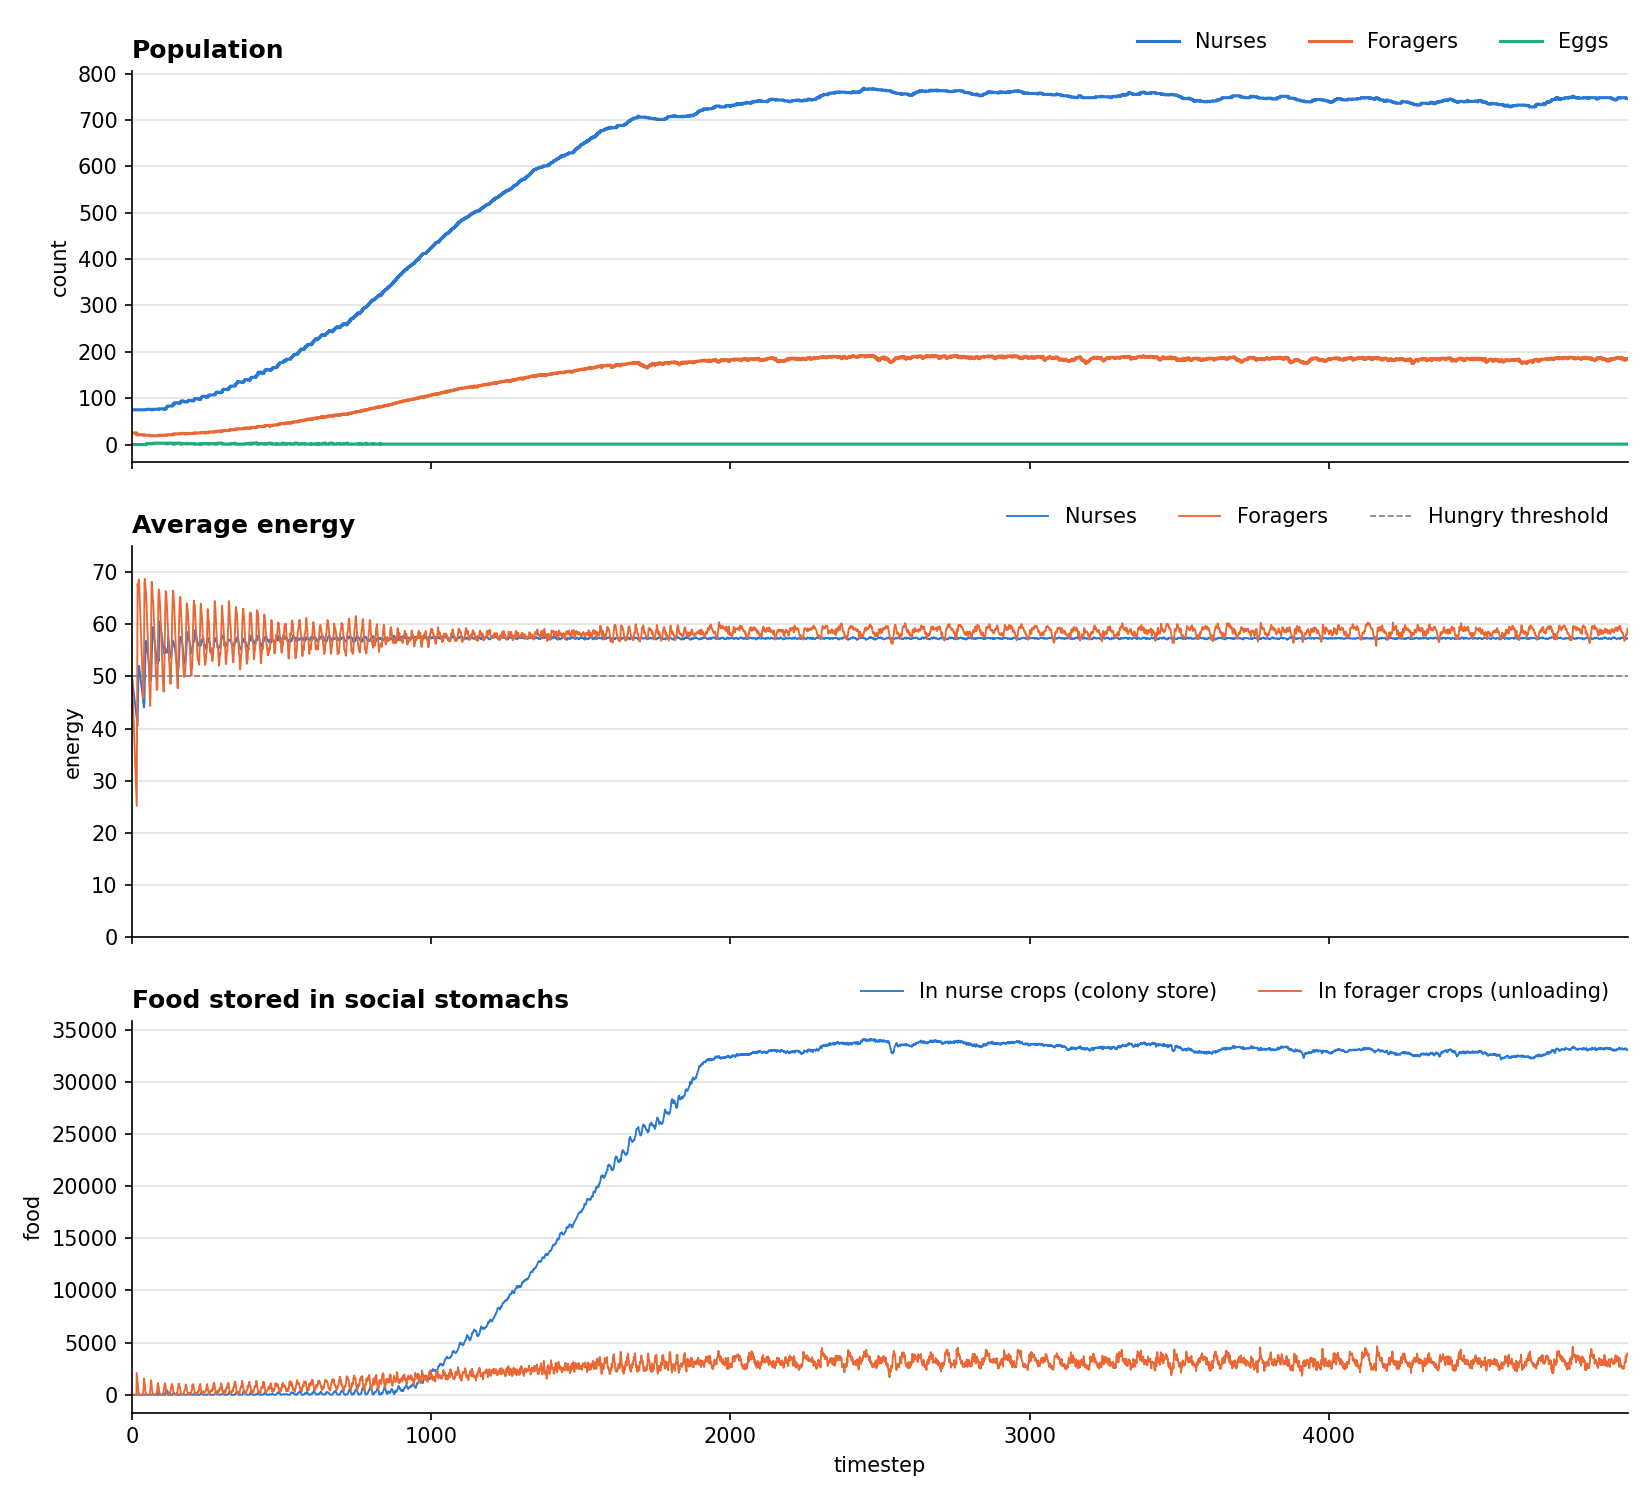
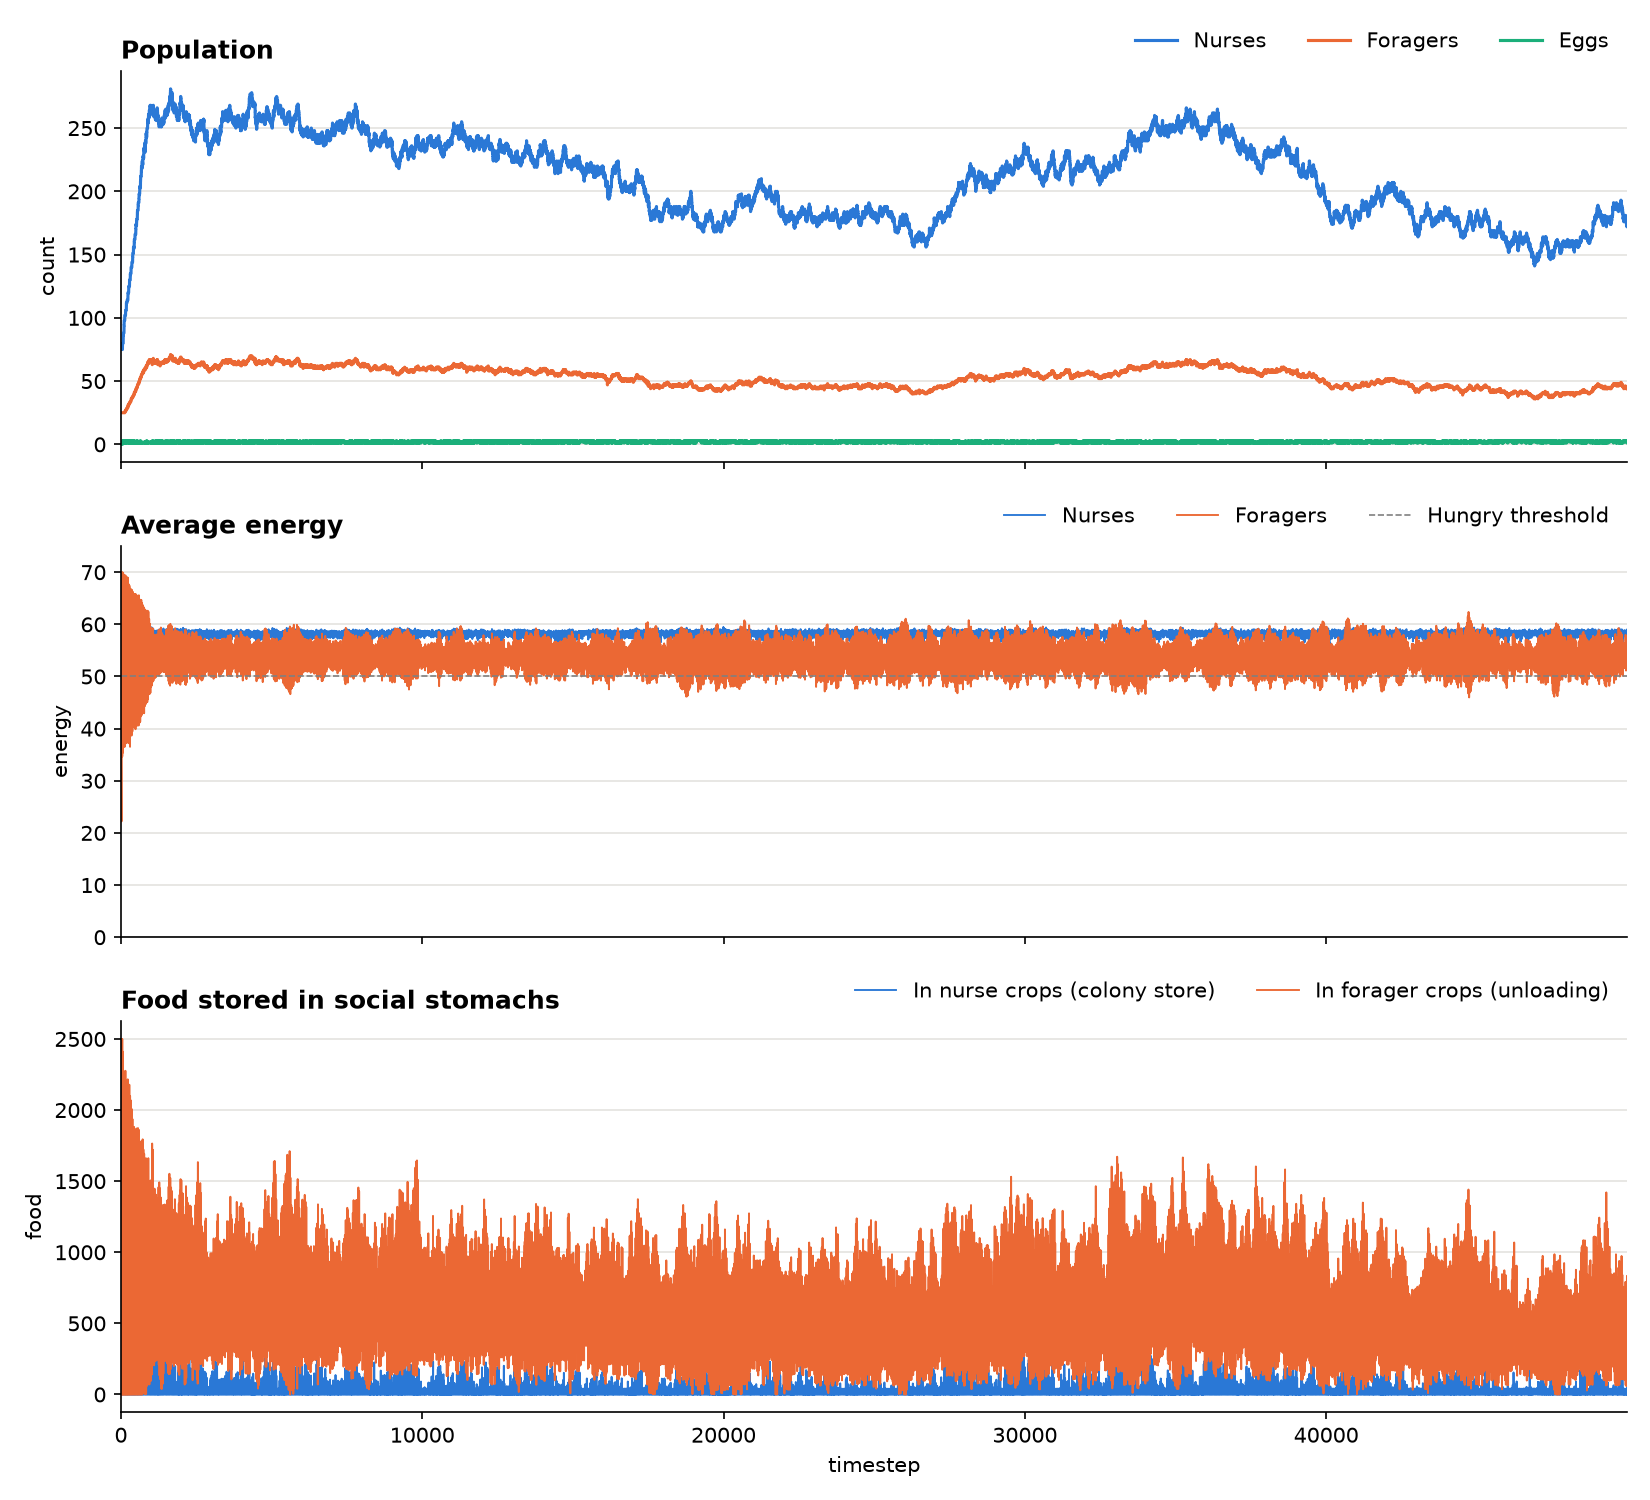
Amended parameters

diff --git a/src/5th nov meeting 100 ant problem.py b/src/5th nov meeting 100 ant problem.py
@@ -1,0 +1,127 @@
+import matplotlib as plt
+
+# ---------------- PARAMETERS ----------------
+
+TOTAL_ANTS = 100
+
+forager_start = 50
+nurse_start = 50
+
+forager_threshold = 50
+nurse_threshold = 50
+
+ant_full = 70
+
+food_per_trip = 100
+feed_rate = 5
+trip_length = 20
+drain = 1
+
+timesteps = 1000
+
+
+# ---------------- SIMULATION ----------------
+
+def run_simulation(starting_foragers):
+
+    starting_nurses = TOTAL_ANTS - starting_foragers
+
+    nurses = [nurse_start] * starting_nurses
+    foragers = [forager_start] * starting_foragers
+    trip_timers = [0] * starting_foragers
+
+    for t in range(timesteps):
+
+        # everyone loses energy
+        for i in range(len(foragers)):
+            foragers[i] -= drain
+
+        for i in range(len(nurses)):
+            nurses[i] -= drain
+
+        # colony dies if anyone starves
+        if any(f <= 0 for f in foragers):
+            return t
+
+        if any(n <= 0 for n in nurses):
+            return t
+
+        # travelling
+        for i in range(len(foragers)):
+
+            if trip_timers[i] > 0:
+
+                trip_timers[i] -= 1
+
+                if trip_timers[i] == 0:
+                    foragers[i] += food_per_trip
+
+        # hungry foragers leave
+        for i in range(len(foragers)):
+
+            if trip_timers[i] == 0 and foragers[i] < forager_threshold:
+                trip_timers[i] = trip_length
+
+        # feed nurses
+        for nurse in range(len(nurses)):
+
+            while nurses[nurse] < nurse_threshold:
+
+                fed = False
+
+                for f in range(len(foragers)):
+
+                    if trip_timers[f] == 0 and foragers[f] > forager_threshold:
+
+                        food = min(
+                            feed_rate,
+                            foragers[f] - forager_threshold,
+                            ant_full - nurses[nurse]
+                        )
+
+                        if food > 0:
+                            nurses[nurse] += food
+                            foragers[f] -= food
+                            fed = True
+                            break
+
+                if not fed:
+                    break
+
+    return timesteps
+
+
+# ---------------- RUN EVERY RATIO ----------------
+
+survival = []
+
+ratios = []
+
+for starting_foragers in range(TOTAL_ANTS + 1):
+
+    time_alive = run_simulation(starting_foragers)
+
+    survival.append(time_alive)
+
+    ratios.append(starting_foragers)
+
+    print(
+        f"Foragers = {starting_foragers:3d} | "
+        f"Nurses = {TOTAL_ANTS-starting_foragers:3d} | "
+        f"Survived {time_alive} steps"
+    )
+
+
+# ---------------- PLOT ----------------
+
+plt.figure(figsize=(10,6))
+
+plt.plot(ratios, survival, linewidth=2)
+
+plt.xlabel("Initial number of foragers")
+plt.ylabel("Timesteps until first starvation")
+plt.title("100-ant colony: survival vs nurse/forager ratio")
+
+plt.grid(True)
+
+plt.show()

diff --git a/sortthis.py b/sortthis.py
@@ -5,26 +5,26 @@ import random
 
 #parameters
 
-n = 5000                  #timesteps to simulate
+n = 50000                  #timesteps to simulate
 
 #energy levels
 ant_full = 70.0                #most energy an ant can hold
-start_energy = 50.0            #energy a newly hatched / starting ant has
+start_energy = 55.0            #energy a newly hatched / starting ant has
 hungry_threshold = 50.0                  #below this an ant wants feeding
 
 # energy lost per timestep ***** one of changes we made
-nurse_drain = 0.5              #nurses sit still in the nest, cheapest
+nurse_drain = 0.5             #nurses sit still in the nest, cheapest
 forager_nest_drain = 0.8       #forager resting in the nest
 forager_trip_drain = 1.6       #forager outside, walking and searching
 
 # foraging
-trip_length = 15               #timesteps a round trip takes
+trip_length = 20            #timesteps a round trip takes
 food_per_trip = 100.0          #food brought home per completed trip
 trip_safety = 1.25             #must have 25% more energy than the trip costs - done this way as it made messing aroung with parameneter4rs easier
 trip_ready = 65.0              #forager tops up to here before setting off
 
 # feeding
-feed_rate = 15.0               #max food moved by one donor per timestep
+feed_rate = 30.0               #max food moved by one donor per timestep
 crop_max = 45.0                #max food a nurse can hold in its social stomach (crop)
 donor_min = 55.0               #a nurse only gives food if it is this healthy
 
@@ -43,9 +43,9 @@ ants_per_forager = 5           #colony wants 1 forager per this many ants
 min_nurses = 2                 #never strip the nest below this many nurses
 
 #forager success for coming back with food
-p_success = 0.95                #comes back with food
-p_death = 0.05                  #dies on journey to get food
-food_spread = 0.1              #trip food varies by about ±25% (1 standard deviation)
+p_success = 1              #comes back with food
+p_death = 0.0                #dies on journey to get food
+food_spread = 0              #trip food varies by about ±25% (1 standard deviation)
 
 #lifetime of ants
 lifespan_mean = 1000            #average lifetime in timesteps
@@ -109,7 +109,7 @@ def run_simulation(food_per_trip=food_per_trip, n_steps=n):
     #trip cost
     trip_cost = trip_length * forager_trip_drain
 
-    for t in range(n_steps):
+    for t in range(50000):
 
         #loses energy by existing
         #checks role of ant, if a forager checks whether it is in the nest, then sets drain accordingly

diff --git a/src/parameters.py b/src/parameters.py
@@ -8,7 +8,7 @@ food_per_trip = 150                    #food foraged gained per trip
 drain = 1                              #energy level(s) lost per timestep
 timestep = 1                           #timestep
 feed_rate = 10                         #rate at which forager feeds nurse
-n = 4000                                #number of timesteps simulate
+n = 400                                #number of timesteps simulate
 ant_full = 100                         #max amount of energy an ant can have
 hatch_cost = 50 
 starting_foragers = 2                   #number of foragers to start with
